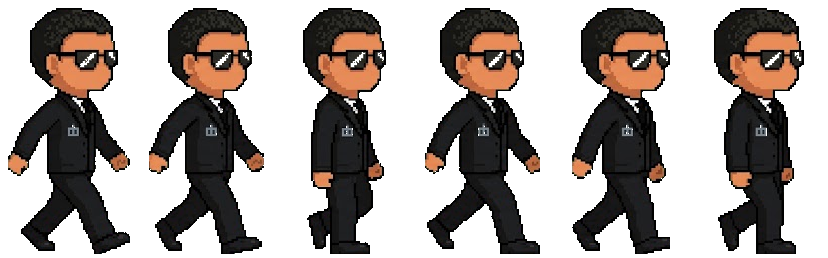
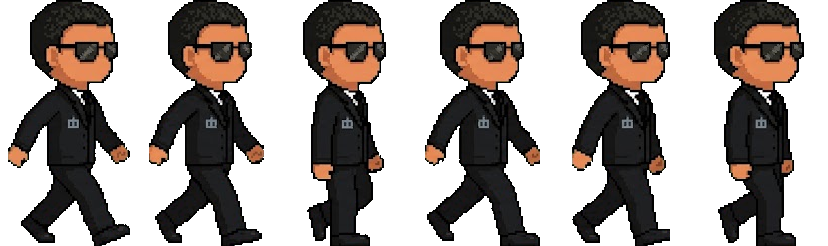
fix: tapa brilho dos oculos e corta vazio nos pes do sprite do seguranca

diff --git a/src/scenes/CenaPerseguicao.js b/src/scenes/CenaPerseguicao.js
@@ -44,7 +44,7 @@ class CenaPerseguicao extends Phaser.Scene {
   preload() {
     this.load.image('fundo-disco', 'src/assets/images/fundo-disco.png');
     // Segurança ANIMADO (6 frames de caminhada).
-    this.load.spritesheet('seguranca_andar', 'src/assets/images/seguranca_andar.png', { frameWidth: 138, frameHeight: 258 });
+    this.load.spritesheet('seguranca_andar', 'src/assets/images/seguranca_andar.png', { frameWidth: 138, frameHeight: 246 });
     // Sprites do nível. As pilhas altas (coluna, caixa) servem de MURO;
     // a caixa única e a mesa são os obstáculos do chão (saltáveis).
     this.load.image('obs-coluna', 'src/assets/images/obs-coluna.png');   // coluna → muro
